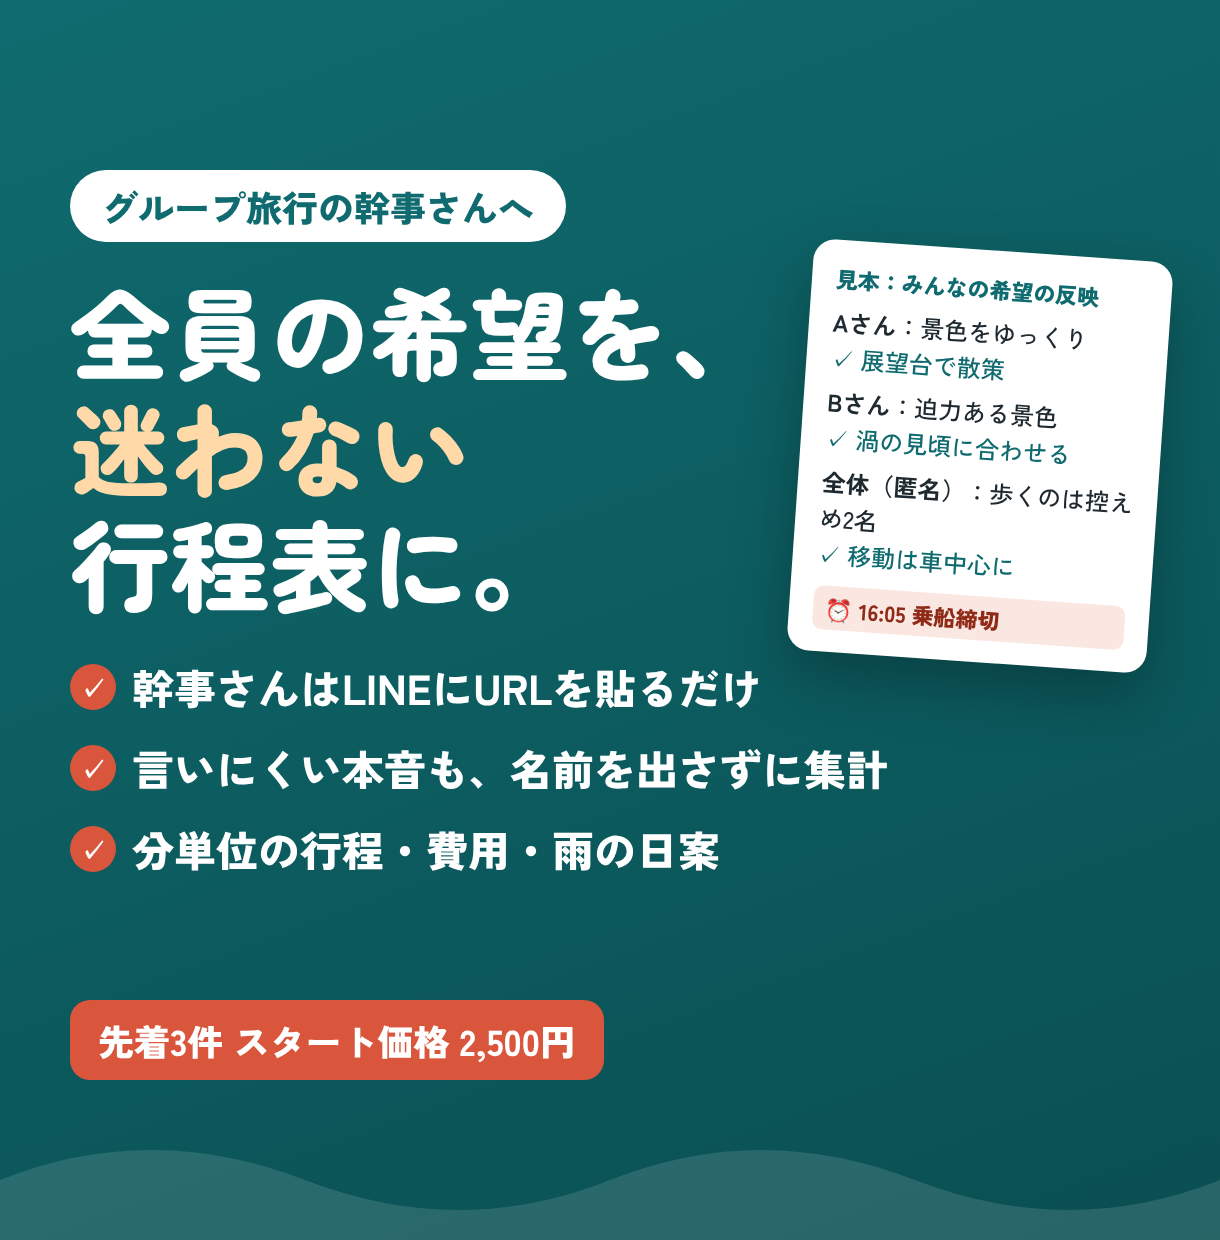
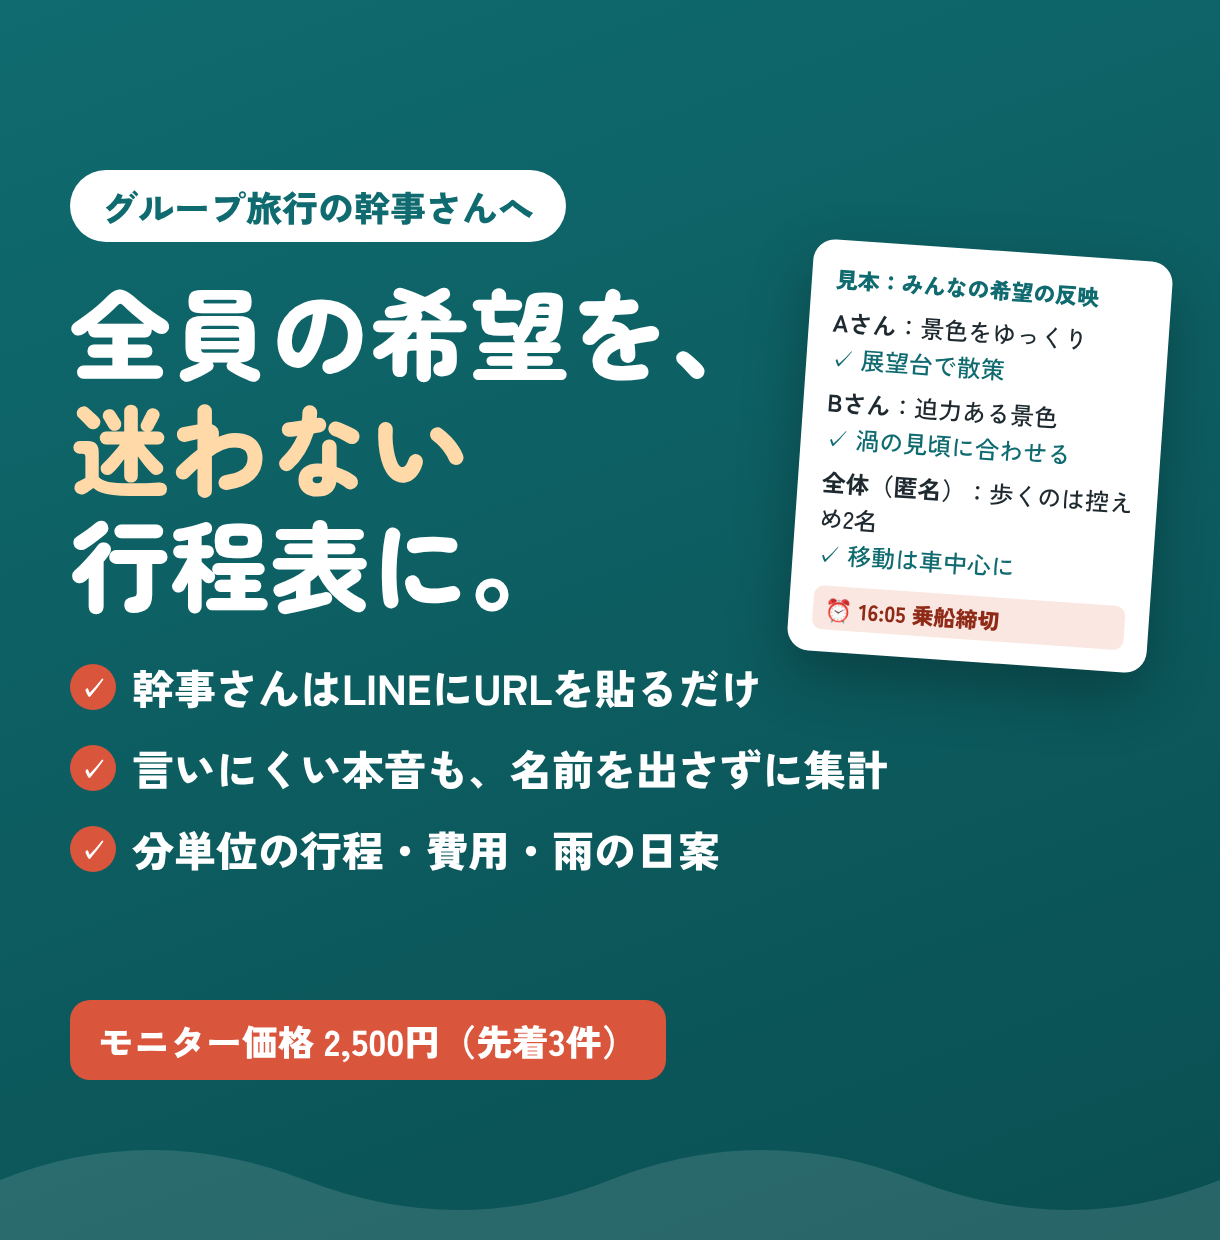
Listing: monitor price, drop rush option, paid English, safer hotel/flight wording
Claude-Session: https://claude.ai/code/session_01Hg3dHMqwrYXPhVVDrR3P56

Changed region(s): [[0.0623, 0.7968, 0.5607, 0.8887]]

diff --git a/fukugyo/05_thumbnails/thumbnails.html b/fukugyo/05_thumbnails/thumbnails.html
@@ -51,7 +51,7 @@
     </div>
     <div style="margin-top:14px;background:#fbe7e2;color:#8f2a17;border-radius:10px;padding:6px 12px;font-weight:900;font-size:22px">⏰ 16:05 乗船締切</div>
   </div>
-  <div style="position:absolute;left:70px;bottom:160px;background:var(--coral);color:#fff;border-radius:20px;padding:14px 28px;font-weight:900;font-size:36px">先着3件 スタート価格 2,500円</div>
+  <div style="position:absolute;left:70px;bottom:160px;background:var(--coral);color:#fff;border-radius:20px;padding:14px 28px;font-weight:900;font-size:36px">モニター価格 2,500円（先着3件）</div>
 </div>
 
 <!-- ============ COCONALA SUB 1: HOW IT WORKS ============ -->

diff --git a/fukugyo/00_README.md b/fukugyo/00_README.md
@@ -17,7 +17,7 @@
 
 ## 決めた方針（レビューを経て変えたところ）
 - **売り**は「幹事さんの手間が減る」だけでなく、「予算や苦手なことなど、言い出しにくい本音を名前を出さずに集められる」こと
-- **価格**：ココナラは先着3件2,500円 → 3,500円 → レビュー5件で4,500円。Fiverrは $20 / $45 / $85 から始め、レビュー5件で $30 / $65 / $120
+- **価格**：ココナラはモニター価格2,500円（先着3件）→ 3,500円 → レビュー5件・平均4.8以上で4,500円を検討。英語版は＋1,000円。お急ぎ対応は最初の3件が終わるまで出さない。Fiverrは $20 / $45 / $85 から始め、レビュー5件で $30 / $65 / $120
 - **受付枠は1件、納期は10日**（平日夜30分＋土日で無理なく回すため）
 - **法律に関わる書き方**を全ファイルで統一：「行程表（資料）の作成。予約・手配・代理、特定の宿や便を選んでお勧めすることはしない。電車・バスは、お客様が決めた便の時刻を公式時刻表から記載する」
 
